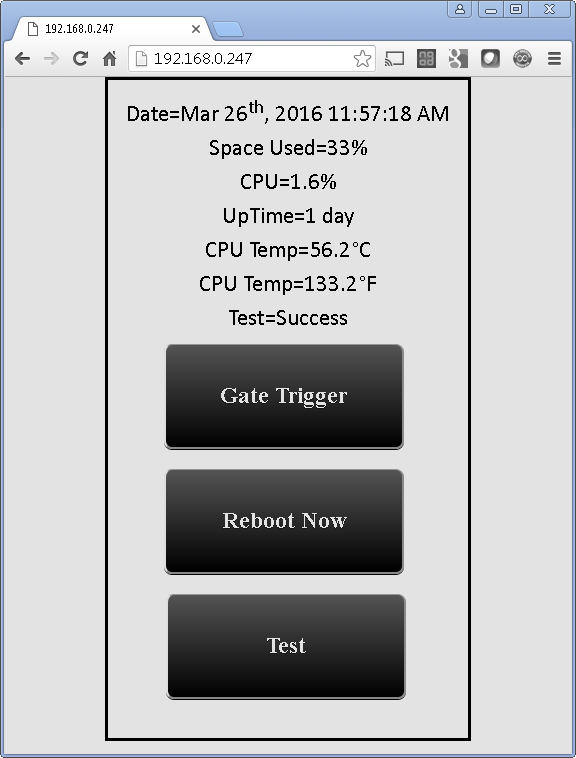
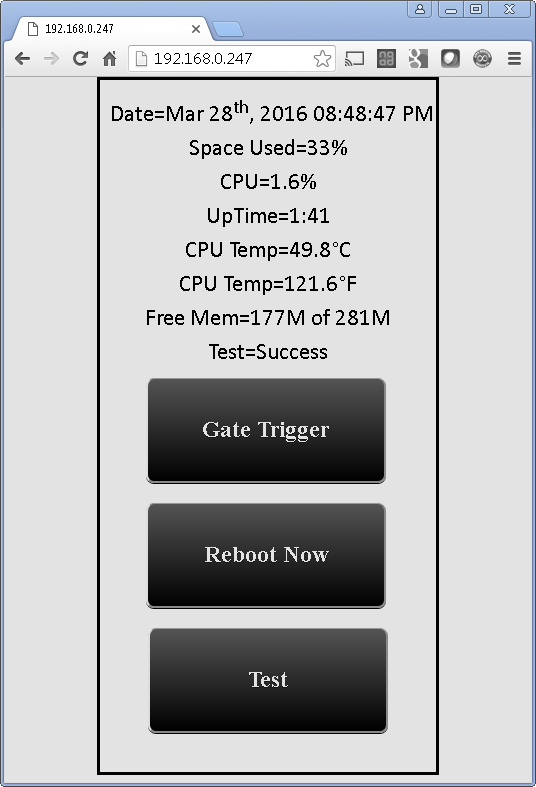
Modified tile background while in "running" states and added free memory tile.
Modified tile background while in "running" states and added free memory
tile. Also added new images.

Changed region(s): [[0.0, 0.0, 1.0, 1.0], [0.4478, 0.8496, 0.5373, 0.8799], [0.0, 0.091, 0.0299, 0.1214]]

diff --git a/Devices/Generic HTTP Device/index.php b/Devices/Generic HTTP Device/index.php
@@ -112,6 +112,10 @@ $tempfahr = round(trim(substr($tempcelcius,0, strpos($tempcelcius, '°')-6))*9/5
 $tempfahr = 'CPU Temp=' . $tempfahr . '°F';
 echo "CPU Temp=$tempcelcius$tempfahr\n";
 
+//FREE MEMORY
+$output = shell_exec('free -t -h | tr -s " " | grep "Total:" | awk -F " " \'{print $4 " of " $2}\'');
+echo "Free Mem=$output";
+
 if (isset($_POST['GateTrigger']))
 {
 //exec("sudo python /var/www/momentary.py");

diff --git a/Devices/Generic HTTP Device/README.md b/Devices/Generic HTTP Device/README.md
@@ -10,6 +10,7 @@ This is the original video that I used for the Raspberry Pi piece: https://www.y
 
 The SmartThings driver was a few hours of self-learning and a bit of frustration --- I really wanted that value tile to show me the last time the script ran WITH SUCCESS.
 
-v1.0.20160327 - Toggling tile states in general and with respect to authentication. Fixed GPIO in the PHP script to be correct and toggle on then off. Used to have off then on, which is incorrect.
+</br>v1.0.20160328 - Modified tile background while in "running" states and added free memory tile.
+</br>v1.0.20160327 - Toggling tile states in general and with respect to authentication. Fixed GPIO in the PHP script to be correct and toggle on then off. Used to have off then on, which is incorrect.
 </br>v1.0.20160326 - Added temperature. Added basic authentication.
 </br>v1.0.20160323 - Initial version
